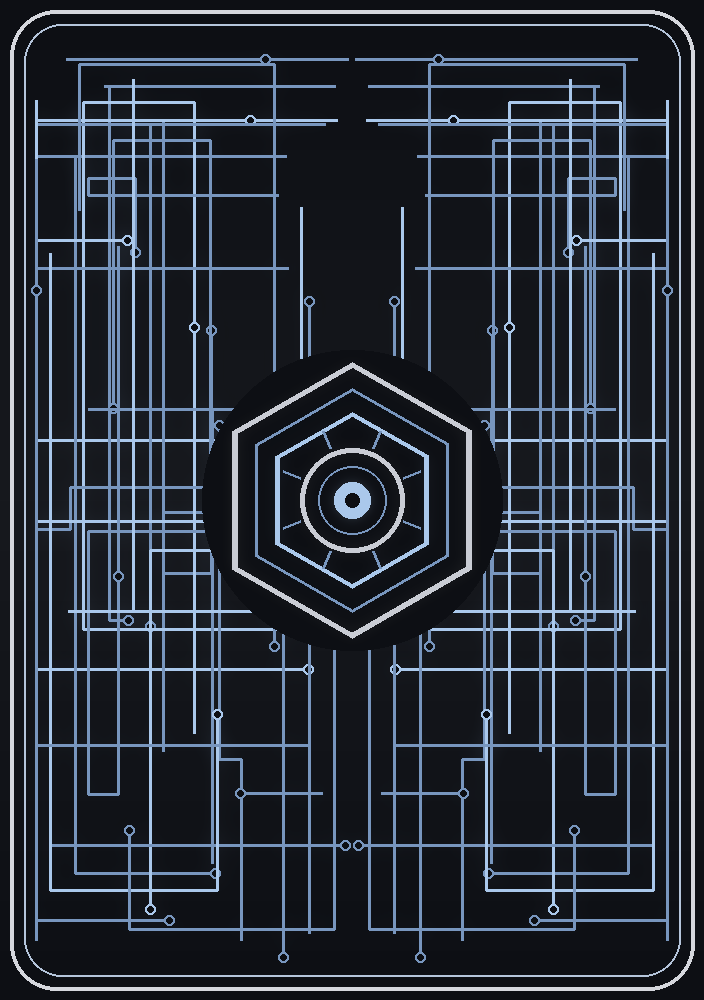
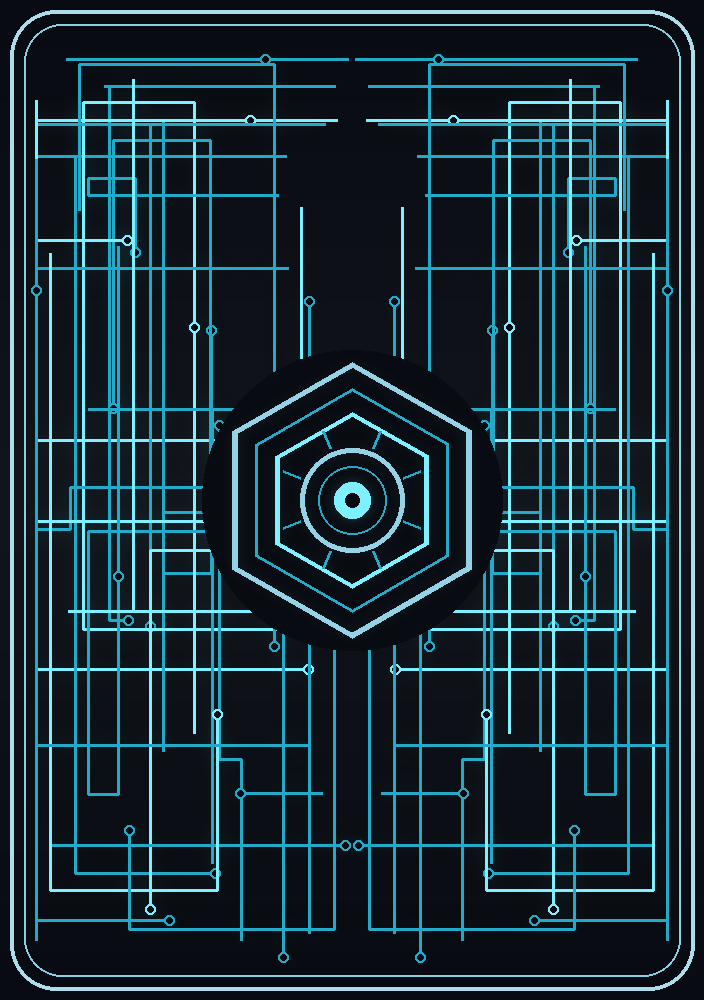
feat(theme): cyborg neon look + glowing Court count
Theme retuned from silver to neon cyborg (the 'gold*' keys keep their
names, only the values changed, so every button, border, chip, ring and
tab picks it up):
- accents #22d3ee / #7ef0ff on a deeper near-black (#080b11) with
  cyan-tinted borders and surfaces
- the glow shadow is now a true neon bloom (no offset, cyan, radius 16)
- danger/success/warning brightened to neon (#ff3d68 / #3ddc97 / #ffb02e)
- table: chrome rim with a glowing cyan edge and inner light line, over
  the crimson felt
- card art regenerated with cyan circuitry (backs + all five faces)
- app logo re-rendered with the neon accent

Court deck count is now neon cyan with a text glow on a cyan-rimmed
chip (it was white-on-dark and reading flat); coin counts glow the same
way. Verified on-device: cyan present in the Court area, table rim, coin
chips and tab bar.

Changed region(s): [[0.0, 0.0, 1.0, 0.992]]

diff --git a/src/theme.ts b/src/theme.ts
@@ -1,5 +1,6 @@
 /**
- * Coup theme — dystopian dark palette with antique gold accents, plus a
+ * Coup theme — cyborg-noir palette: near-black chrome surfaces with neon
+ * cyan accents (keys keep the historical 'gold' names), plus a
  * signature color per character (mirroring the physical game's role icons:
  * Duke's crimson star, Captain's blue chevrons, Assassin's black skull,
  * Contessa's scarlet crest, Ambassador's olive-gold exchange marks).
@@ -23,39 +24,39 @@ export const theme = {
   colors: {
     // Accent — polished silver, matching the game's coin token.
     // (Keys keep the historical 'gold' names to avoid a mass rename.)
-    gold: '#c9ccd4',
-    goldDark: '#7d828e',
-    goldLight: '#e9ebf0',
-    inkOnGold: '#14161a',
+    gold: '#22d3ee',
+    goldDark: '#0e7490',
+    goldLight: '#7ef0ff',
+    inkOnGold: '#04141a',
 
     // Neutrals (cool near-black — lets the character colors breathe)
-    background: '#0e1014',
-    surface: '#171a20',
-    surfaceElevated: '#1e222b',
-    surfaceHover: '#272c37',
-    border: 'rgba(200, 210, 230, 0.10)',
-    borderBright: 'rgba(200, 210, 230, 0.22)',
+    background: '#080b11',
+    surface: '#111721',
+    surfaceElevated: '#161e2b',
+    surfaceHover: '#1e2938',
+    border: 'rgba(126, 240, 255, 0.14)',
+    borderBright: 'rgba(126, 240, 255, 0.32)',
 
     // Text
-    ink: '#eef0f4',
-    inkSoft: '#a7adba',
-    inkFaint: '#646a76',
+    ink: '#eaf6ff',
+    inkSoft: '#9fb3c8',
+    inkFaint: '#5d6b7d',
 
     // Semantic
-    success: '#5da860',
-    danger: '#d9534f',
-    warning: '#e8a33d',
+    success: '#3ddc97',
+    danger: '#ff3d68',
+    warning: '#ffb02e',
 
     // Tab bar
     tabBar: 'rgba(12, 14, 18, 0.97)',
-    tabActive: '#c9ccd4',
+    tabActive: '#22d3ee',
     tabInactive: '#646a76',
   },
   role: roleColors,
   gradients: {
-    gold: ['#7d828e', '#c9ccd4'] as [string, string],
-    table: ['#14171d', '#0e1014'] as [string, string],
-    card: ['#1e222b', '#171a20'] as [string, string],
+    gold: ['#0e7490', '#22d3ee'] as [string, string],
+    table: ['#0c1219', '#080b11'] as [string, string],
+    card: ['#161e2b', '#111721'] as [string, string],
   },
   radius: { xs: 6, sm: 10, md: 16, lg: 20, xl: 28, pill: 999 },
   spacing: { xs: 4, sm: 8, md: 16, lg: 24, xl: 32, xxl: 48 },
@@ -79,11 +80,11 @@ export const theme = {
       elevation: 4,
     },
     goldGlow: {
-      shadowColor: '#c9ccd4',
-      shadowOffset: { width: 0, height: 4 },
-      shadowOpacity: 0.3,
-      shadowRadius: 14,
-      elevation: 6,
+      shadowColor: '#22d3ee',
+      shadowOffset: { width: 0, height: 0 },
+      shadowOpacity: 0.75,
+      shadowRadius: 16,
+      elevation: 8,
     },
   },
   motion: {

diff --git a/src/screens/GameScreen.tsx b/src/screens/GameScreen.tsx
@@ -1495,8 +1495,11 @@ const makeStyles = (theme: Theme) =>
     tableRimOuter: {
       flex: 1,
       borderRadius: 96,
-      backgroundColor: '#3a3f4a',
+      backgroundColor: '#16222e',
+      borderWidth: 1.5,
+      borderColor: 'rgba(34, 211, 238, 0.55)',
       padding: 5,
+      ...theme.shadow.goldGlow,
     },
     felt: {
       flex: 1,
@@ -1516,7 +1519,7 @@ const makeStyles = (theme: Theme) =>
       bottom: 14,
       borderRadius: 80,
       borderWidth: 1.5,
-      borderColor: 'rgba(255,255,255,0.10)',
+      borderColor: 'rgba(34, 211, 238, 0.30)',
     },
     tableCenter: {
       position: 'absolute',
@@ -1566,20 +1569,24 @@ const makeStyles = (theme: Theme) =>
       borderColor: theme.colors.goldDark,
     },
     courtCountChip: {
-      minWidth: 32,
-      paddingHorizontal: 7,
+      minWidth: 34,
+      paddingHorizontal: 8,
       paddingVertical: 1,
       borderRadius: theme.radius.pill,
-      borderWidth: 1,
-      borderColor: 'rgba(233,235,240,0.3)',
+      borderWidth: 1.5,
+      borderColor: theme.colors.gold,
       alignItems: 'center',
       justifyContent: 'center',
       overflow: 'hidden',
+      ...theme.shadow.goldGlow,
     },
     courtCount: {
-      fontSize: 16,
+      fontSize: 17,
       fontFamily: latinFont('bold'),
-      color: '#ffffff',
+      color: '#7ef0ff',
+      textShadowColor: '#22d3ee',
+      textShadowOffset: { width: 0, height: 0 },
+      textShadowRadius: 8,
     },
     tableSeat: {
       position: 'absolute',
@@ -1676,6 +1683,7 @@ const makeStyles = (theme: Theme) =>
     seatNameChipTurn: {
       backgroundColor: theme.colors.gold,
       borderColor: theme.colors.goldLight,
+      ...theme.shadow.goldGlow,
     },
     seatNameTextTurn: {
       color: theme.colors.inkOnGold,

diff --git a/src/components/Coin.tsx b/src/components/Coin.tsx
@@ -61,7 +61,7 @@ const makeStyles = (theme: Theme) =>
     chip: {
       borderRadius: theme.radius.pill,
       borderWidth: 1,
-      borderColor: 'rgba(233,235,240,0.28)',
+      borderColor: 'rgba(34, 211, 238, 0.6)',
       paddingHorizontal: 7,
       paddingVertical: 1,
       gap: 4,
@@ -75,6 +75,9 @@ const makeStyles = (theme: Theme) =>
       textShadowRadius: 3,
     },
     amountChip: {
-      color: '#ffffff',
+      color: '#7ef0ff',
+      textShadowColor: '#22d3ee',
+      textShadowOffset: { width: 0, height: 0 },
+      textShadowRadius: 7,
     },
   });

diff --git a/scripts/gen-assets.py b/scripts/gen-assets.py
@@ -12,10 +12,10 @@ from PIL import Image, ImageDraw, ImageFont, ImageFilter
 OUT = os.path.join(os.path.dirname(__file__), "..", "assets")
 os.makedirs(OUT, exist_ok=True)
 
-BG = (14, 16, 20, 255)          # #0e1014 cool near-black
-GOLD = (201, 204, 212)           # main gold
-GOLD_DARK = (125, 130, 142)
-GOLD_LIGHT = (233, 235, 240)
+BG = (8, 11, 17, 255)           # #080b11 cyborg near-black
+GOLD = (34, 211, 238)            # neon cyan accent
+GOLD_DARK = (14, 116, 144)
+GOLD_LIGHT = (126, 240, 255)
 INK = (18, 20, 26)
 
 

diff --git a/scripts/gen-cards.py b/scripts/gen-cards.py
@@ -11,10 +11,11 @@ OUT = os.path.join(os.path.dirname(__file__), "..", "assets", "cards")
 os.makedirs(OUT, exist_ok=True)
 
 W, H = 704, 1000
-STEEL = (120, 150, 190)
-STEEL_BRIGHT = (170, 200, 235)
-SILVER = (201, 204, 212)
-BG = (13, 15, 20)
+# neon-cyborg palette: cyan circuitry on chrome
+STEEL = (34, 170, 200)
+STEEL_BRIGHT = (126, 240, 255)
+SILVER = (150, 210, 230)
+BG = (8, 11, 17)
 
 
 def circuit_layer(seed, n_traces, box, thickness=3, pad_r=5):
